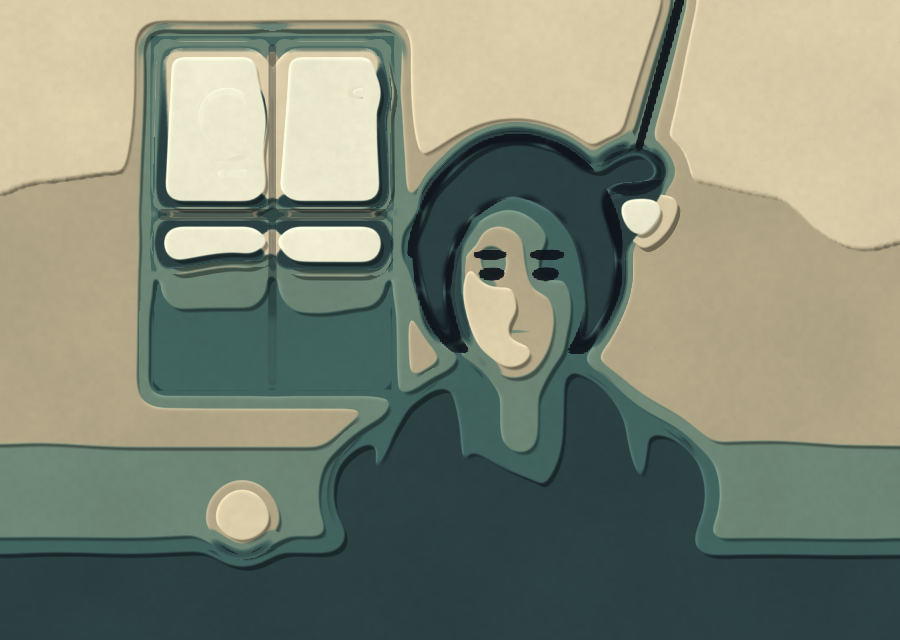
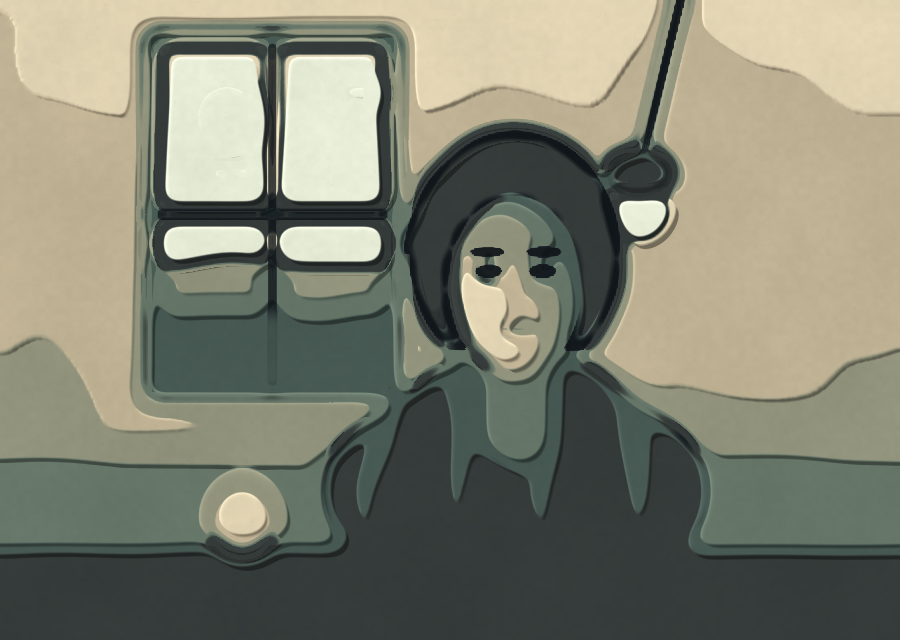
切り紙の世界: 既定値を判読性寄りに調整 (#134)
ユーザー指摘「もうすこし、映っているものが何かわかるようにしたい」への
数値チューニング(構造変更なし)。スライダー4本の既定値を A/B 比較の
目視で選定:

- layers 0.5→0.75(レイヤー数を判読性寄りの多めに)
- smooth 0.5→0.35(平滑を弱め、物の輪郭が量子化境界に残るように)
- palette 0.7→0.5(実写色寄りにして物の色で判別できるように)
- detail 0.6→0.75(暗部小紙片の保護を強め、顔の造作を残す)

顔の造作・肩・服の襞・窓枠の判読が明確に向上し、切り紙の様式
(切り口・落ち影・フラット面)は維持。ヘッダの既定値記載を更新、
サムネイルと final_day を新既定で再生成。

verify_static 既知1件のみ(構造不変のためフル検証は省略 —
チューニングモードの規律)。

Claude-Session: https://claude.ai/code/session_01DTJPjJypbfpFcWh88bfm1t

diff --git a/fable5_kirie-sekai.html b/fable5_kirie-sekai.html
@@ -63,14 +63,16 @@
     デバッグ表示: 0=最終 1=平滑輝度(量子化場) 2=量子化レベルのみ(切り口・影なし)
                   3=境界帯の可視化(rim=橙/落ち影=青/細分=緑) 4=標本
 
-  スライダーの説明(写真らしさ ↔ 様式の強さ。計7本):
-    紙の枚数   量子化レイヤー数(4↔8)
-    紙の厚み   切り口ハイライトと落ち影の強さ・オフセット
-    ハサミの丸み kuwahara/ぼかし平滑半径(境界曲率と最小紙片サイズ)
-    紙の色統一 oklab パレットスナップの強さ(0=実写色寄り)
-    落ち着き   しきい値/平滑輝度 ema の時定数(安定↔追従)
-    暗部の精密 暗部小紙片の保護と局所細分(顔の判読性)
-    紙の質感   繊維グレインと紙の色ムラ
+  スライダーの説明(写真らしさ ↔ 様式の強さ。計7本。カッコ内は既定値):
+    紙の枚数   量子化レイヤー数(4↔8)(0.75 — 判読性寄りの多め)
+    紙の厚み   切り口ハイライトと落ち影の強さ・オフセット(0.55)
+    ハサミの丸み kuwahara/ぼかし平滑半径(境界曲率と最小紙片サイズ)(0.35)
+    紙の色統一 oklab パレットスナップの強さ(0=実写色寄り)(0.5)
+    落ち着き   しきい値/平滑輝度 ema の時定数(安定↔追従)(0.55)
+    暗部の精密 暗部小紙片の保護と局所細分(顔の判読性)(0.75)
+    紙の質感   繊維グレインと紙の色ムラ(0.4)
+  ※ 既定は「映っているものが判読できる」側に調整済み(レイヤー多め・平滑弱め・
+    実写色寄り・暗部保護強め)。様式を強くしたい場合は各スライダーを様式側へ。
   select は「プリセット」(昼の風景箱/夜の風景箱/セピアの標本箱)と「デバッグ表示」のみ。
 
   依存: なし(外部 ML 不使用。カメラのみ)。WebGL2 / GLSL ES 3.00 単体。
@@ -295,12 +297,12 @@
         ];
 
         const DEFAULTS = {
-          layers: 0.5,
+          layers: 0.75,
           relief: 0.55,
-          smooth: 0.5,
-          palette: 0.7,
+          smooth: 0.35,
+          palette: 0.5,
           calm: 0.55,
-          detail: 0.6,
+          detail: 0.75,
           grain: 0.4,
         };
 
